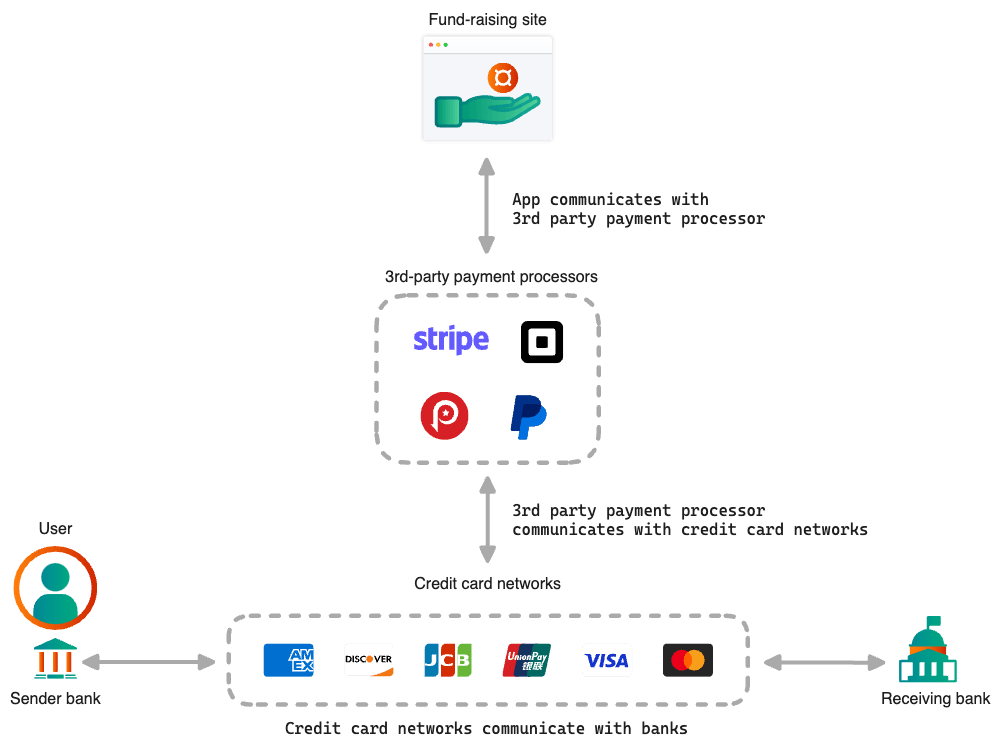
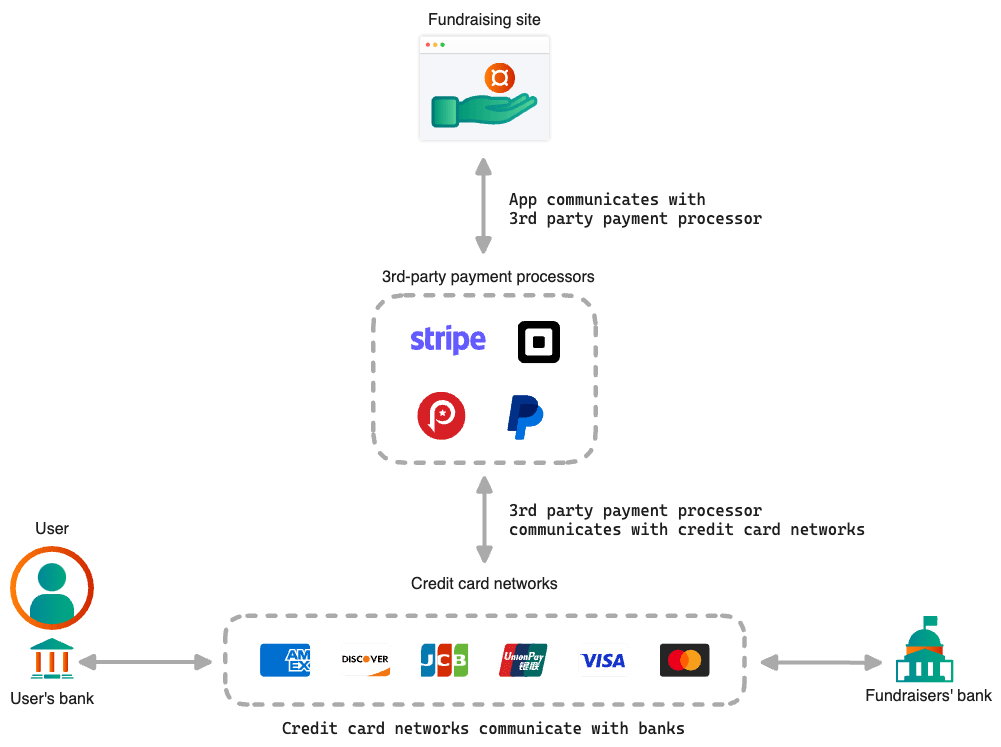
update diagrams based on feedback

diff --git a/src/content/blog/2024-07-08-simple-open-payments-guide.md b/src/content/blog/2024-07-08-simple-open-payments-guide.md
@@ -23,6 +23,8 @@ An alternative is for applications to integrate directly with their bank's payme
 
 This problem gets even more complicated when we consider situations where either the sender or the recipient of funds does not have a bank account. What if a payment has to take place between a bank and a mobile money provider? Now the application would have to also integrate with the mobile money provider. Custom integration becomes an expansive problem.
 
+![Custom integrations are not scaleable](/developers/img/blog/2024-06-20/custom-integration.png)
+
 What if there was a way for an application to access your account directly, and securely? Currently, even if you provide an application with your account details, it likely wouldn't be able to do much with them, even with your permission. As an account owner, shouldn't you have the power to decide who can access your account and what they can do with it?
 
 ## The Promise of the Open Payments Standard
